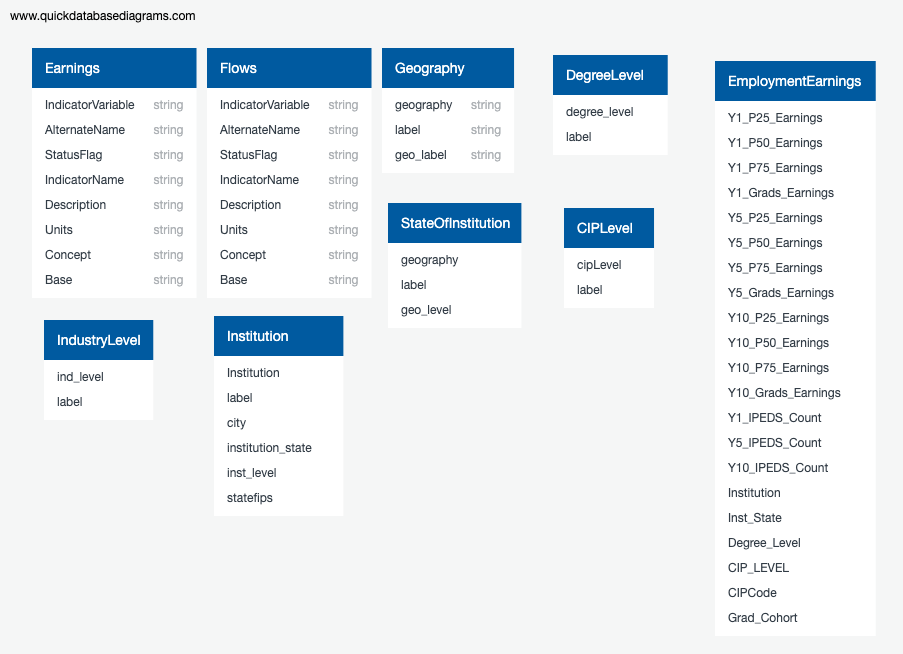
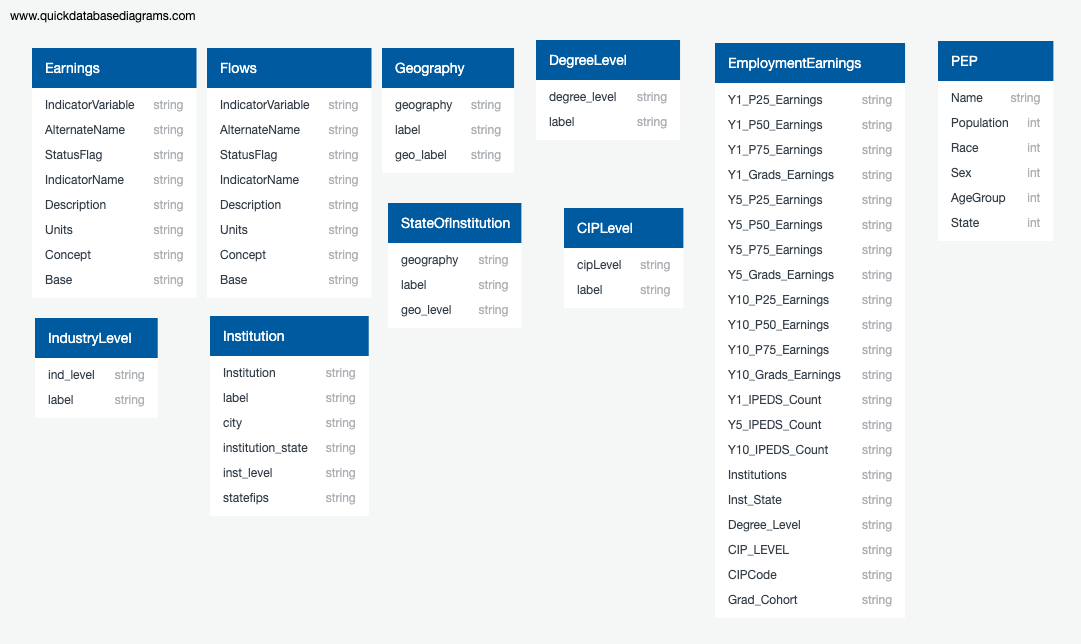
Post-Secondary Employment Outcome variables

Changed region(s): [[0.031, 0.0621, 0.9922, 0.9627], [0.0, 0.0, 0.2171, 0.0311]]

diff --git a/README.md b/README.md
@@ -44,6 +44,9 @@ Pulling data from census.gov using following api:
 ### Database Design
 
 ![](Resources/DatabaseDesign.png)
+![](Resources/PSEO_Variables.png)
+
+
 
 
 
